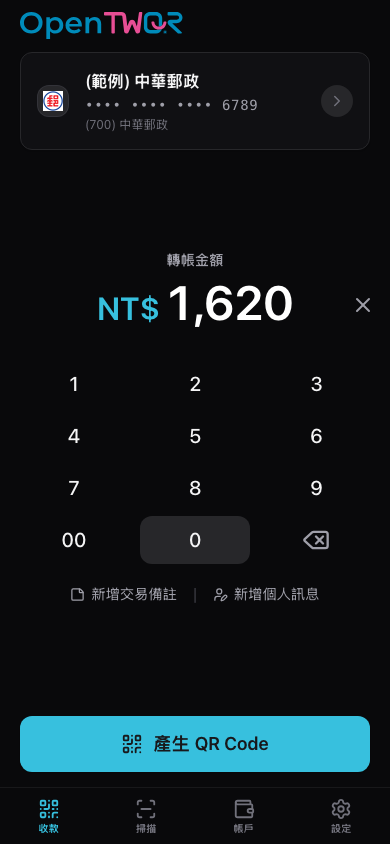
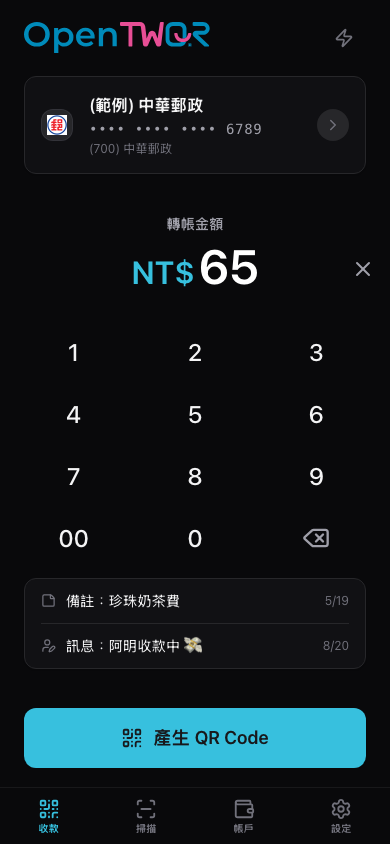
feat: 更新多個頁面和組件的樣式以改善用戶界面；調整按鈕和間距以增強可用性

diff --git a/src/pages/ReceivePage.tsx b/src/pages/ReceivePage.tsx
@@ -187,14 +187,22 @@ export const ReceivePage = () => {
 
       <main id="receive-main" className="flex-1 flex flex-col min-h-0 max-w-md lg:max-w-lg mx-auto w-full pb-safe">
         {/* Header */}
-        <header className="shrink-0 flex justify-between items-center px-5 py-3 pt-[calc(0.75rem+env(safe-area-inset-top))]">
+        <header className="shrink-0 flex justify-between items-center px-6 py-4 pt-[calc(1rem+env(safe-area-inset-top))]">
           <h1>
-            <OpenTWQRLogo className="h-7 w-auto" />
+            <OpenTWQRLogo className="h-8 w-auto" />
           </h1>
+          <button
+            type="button"
+            onClick={() => setShowQuickAccess(true)}
+            aria-label={t.receive.quickAccess}
+            className="p-2.5 min-w-11 min-h-11 flex items-center justify-center rounded-full text-zinc-400 dark:text-zinc-500 hover:text-zinc-700 dark:hover:text-zinc-200 hover:bg-zinc-100 dark:hover:bg-zinc-800 transition-colors focus-visible:outline-hidden focus-visible:ring-2 focus-visible:ring-zinc-900 dark:focus-visible:ring-zinc-100"
+          >
+            <Zap size={20} aria-hidden="true" />
+          </button>
         </header>
 
         {/* Account selector */}
-        <div className="shrink-0 px-5 mb-1">
+        <div className="shrink-0 px-6 mb-3">
           <Link
             to="/accounts"
             viewTransition
@@ -226,39 +234,47 @@ export const ReceivePage = () => {
 
         {/* Amount input, transaction note & generate button */}
         <div className="flex-1 flex flex-col justify-between min-h-0">
-          <div className="flex-1 flex flex-col items-center justify-center gap-2 min-h-0">
+          <div className="flex-1 flex flex-col items-center justify-center gap-3 min-h-0">
             <AmountInput value={amount} onChange={setAmount} />
 
-            {/* Transaction note & personal message — side by side */}
-            <div className="w-full max-w-sm mx-auto px-4 flex items-center justify-center gap-4">
-              <button
-                type="button"
-                onClick={() => setShowNoteInput(true)}
-                className="flex items-center gap-1.5 text-sm text-zinc-500 dark:text-zinc-400 hover:text-zinc-700 dark:hover:text-zinc-300 transition-colors py-2.5 min-h-11 rounded-lg whitespace-nowrap focus-visible:outline-hidden focus-visible:ring-2 focus-visible:ring-zinc-900 dark:focus-visible:ring-zinc-100"
-              >
-                <StickyNote size={15} aria-hidden="true" className="shrink-0" />
-                <span className="truncate">{note ? `${t.qr.notePrefix}${note}` : t.receive.addNote}</span>
-              </button>
-              <span className="text-zinc-300 dark:text-zinc-700 select-none" aria-hidden="true">|</span>
-              <button
-                type="button"
-                onClick={() => setShowMessageInput(true)}
-                className="flex items-center gap-1.5 text-sm text-zinc-500 dark:text-zinc-400 hover:text-zinc-700 dark:hover:text-zinc-300 transition-colors py-2.5 min-h-11 rounded-lg whitespace-nowrap focus-visible:outline-hidden focus-visible:ring-2 focus-visible:ring-zinc-900 dark:focus-visible:ring-zinc-100"
-              >
-                <UserPen size={15} aria-hidden="true" className="shrink-0" />
-                <span className="truncate">{customName ? `${t.receive.messagePrefix}${customName}` : t.receive.addMessage}</span>
-              </button>
+            {/* Transaction note & personal message — two rows in a card */}
+            <div className="w-full px-6">
+              <div className="bg-white dark:bg-zinc-900/60 border border-zinc-200 dark:border-zinc-800 rounded-xl overflow-hidden shadow-xs">
+                <button
+                  type="button"
+                  onClick={() => setShowNoteInput(true)}
+                  className="flex items-center gap-2.5 text-sm hover:bg-zinc-50 dark:hover:bg-zinc-800/60 transition-colors py-3 px-4 min-h-11 w-full focus-visible:outline-hidden focus-visible:ring-2 focus-visible:ring-inset focus-visible:ring-zinc-900 dark:focus-visible:ring-zinc-100"
+                >
+                  <StickyNote size={15} aria-hidden="true" className="shrink-0 text-zinc-400 dark:text-zinc-500" />
+                  <span className={`flex-1 text-left truncate ${note ? 'text-zinc-800 dark:text-zinc-100' : 'text-zinc-400 dark:text-zinc-500'}`}>
+                    {note ? `${t.qr.notePrefix}${note}` : t.receive.addNote}
+                  </span>
+                  {note && <span className="text-xs text-zinc-400 dark:text-zinc-500 shrink-0">{note.length}/19</span>}
+                </button>
+                <div className="h-px bg-zinc-100 dark:bg-zinc-800 mx-4" aria-hidden="true" />
+                <button
+                  type="button"
+                  onClick={() => setShowMessageInput(true)}
+                  className="flex items-center gap-2.5 text-sm hover:bg-zinc-50 dark:hover:bg-zinc-800/60 transition-colors py-3 px-4 min-h-11 w-full focus-visible:outline-hidden focus-visible:ring-2 focus-visible:ring-inset focus-visible:ring-zinc-900 dark:focus-visible:ring-zinc-100"
+                >
+                  <UserPen size={15} aria-hidden="true" className="shrink-0 text-zinc-400 dark:text-zinc-500" />
+                  <span className={`flex-1 text-left truncate ${customName ? 'text-zinc-800 dark:text-zinc-100' : 'text-zinc-400 dark:text-zinc-500'}`}>
+                    {customName ? `${t.receive.messagePrefix}${customName}` : t.receive.addMessage}
+                  </span>
+                  {customName && <span className="text-xs text-zinc-400 dark:text-zinc-500 shrink-0">{customName.length}/20</span>}
+                </button>
+              </div>
             </div>
           </div>
 
-          <div className="shrink-0 px-5 pb-4 pt-1">
+          <div className="shrink-0 px-6 pb-5 pt-3">
             <button
               type="button"
               onClick={() => {
                 haptic();
                 setShowQR(true);
               }}
-              className="w-full flex items-center justify-center gap-2.5 py-3.5 btn-accent font-semibold rounded-xl text-lg active:scale-98 action-transition shadow-xs focus-visible:outline-hidden focus-visible:ring-2 focus-visible:ring-offset-2 dark:focus-visible:ring-offset-zinc-950"
+              className="w-full flex items-center justify-center gap-2.5 py-4 btn-accent font-semibold rounded-xl text-lg active:scale-98 action-transition shadow-xs focus-visible:outline-hidden focus-visible:ring-2 focus-visible:ring-offset-2 dark:focus-visible:ring-offset-zinc-950"
             >
               <QrCode size={22} aria-hidden="true" />
               {t.receive.generateQR}

diff --git a/src/pages/SharePage.tsx b/src/pages/SharePage.tsx
@@ -10,11 +10,33 @@ import { haptic } from '../utils/haptics';
 import { UserPlus, CreditCard, Banknote, StickyNote } from 'lucide-react';
 
 /**
+ * Returns true when `value` looks like one of our own encrypted share URLs,
+ * i.e. matches `<origin>/s/<base64url>#<base64url>`.
+ *
+ * The `#` arrives percent-encoded (%23) in the query-parameter value, but
+ * `URLSearchParams.get()` decodes it back to `#` before we see it here, so
+ * we can simply parse it with the `URL` constructor.
+ */
+function isOwnShareUrl(value: string): boolean {
+  try {
+    const url = new URL(value);
+    return (
+      url.origin === window.location.origin &&
+      /^\/s\/[A-Za-z0-9_-]+$/.test(url.pathname) &&
+      url.hash.length > 1
+    );
+  } catch {
+    return false;
+  }
+}
+
+/**
  * Web Share Target landing page — `/share?text=<shared-text>`.
  * Routes shared content to the appropriate handler based on content type:
- *  - OTWQR backup string → ImportDialog
- *  - TWQR QR code string → disambiguation (save account vs. pay)
- *  - Otherwise           → redirect home
+ *  - OTWQR backup string      → ImportDialog
+ *  - TWQR QR code string      → disambiguation (save account vs. pay)
+ *  - OpenTWQR share URL       → redirect to /s/:data#fragment (SharedPage)
+ *  - Otherwise                → redirect home
  */
 export const SharePage = () => {
   const [params] = useSearchParams();
@@ -29,7 +51,7 @@ export const SharePage = () => {
   ].filter(Boolean) as string[];
 
   let sharedText = '';
-  let contentType: 'otwqr' | 'twqr' | 'unknown' = 'unknown';
+  let contentType: 'otwqr' | 'twqr' | 'shareurl' | 'unknown' = 'unknown';
 
   for (const candidate of candidates) {
     const trimmed = candidate.trim();
@@ -43,9 +65,23 @@ export const SharePage = () => {
       contentType = 'twqr';
       break;
     }
+    // Detect an encrypted OpenTWQR payment-link URL shared from another device.
+    // URLSearchParams.get() already percent-decodes the value, so the `#`
+    // fragment separator is restored from %23 before we reach this check.
+    if (contentType === 'unknown' && isOwnShareUrl(trimmed)) {
+      sharedText = trimmed;
+      contentType = 'shareurl';
+      // Don't break — a later candidate might be a higher-priority OTWQR/TWQR string.
+    }
   }
 
   if (!sharedText || contentType === 'unknown') return <Navigate to="/" replace />;
+
+  // Encrypted share URL → hand off to SharedPage which handles decryption.
+  if (contentType === 'shareurl') {
+    const { pathname, hash } = new URL(sharedText);
+    return <Navigate to={`${pathname}${hash}`} replace />;
+  }
 
   if (contentType === 'otwqr') {
     return (

diff --git a/src/components/receive/AmountInput.tsx b/src/components/receive/AmountInput.tsx
@@ -71,7 +71,7 @@ export const AmountInput = ({ value, onChange, maxAmount = 2_000_000 }: AmountIn
   const formattedMax = new Intl.NumberFormat().format(maxAmount);
 
   const digitBtnClass =
-    'h-12 rounded-xl text-xl font-medium text-zinc-900 dark:text-zinc-100 hover:bg-zinc-100 dark:hover:bg-zinc-800 active:bg-zinc-200 dark:active:bg-zinc-700 action-transition flex items-center justify-center';
+    'h-14 rounded-xl text-2xl font-medium text-zinc-900 dark:text-zinc-100 hover:bg-zinc-100 dark:hover:bg-zinc-800 active:bg-zinc-200 dark:active:bg-zinc-700 action-transition flex items-center justify-center';
 
   return (
     <div className="w-full max-w-sm mx-auto flex flex-col gap-2">
@@ -127,7 +127,7 @@ export const AmountInput = ({ value, onChange, maxAmount = 2_000_000 }: AmountIn
       </div>
 
       {/* Keypad */}
-      <div role="group" aria-label={t.amount.keypad} className="grid grid-cols-3 gap-x-3 gap-y-1 select-none px-4 shrink-0">
+      <div role="group" aria-label={t.amount.keypad} className="grid grid-cols-3 gap-x-3 gap-y-1.5 select-none px-4 shrink-0">
         {[1, 2, 3, 4, 5, 6, 7, 8, 9].map((num) => (
           <button
             key={num}
@@ -148,7 +148,7 @@ export const AmountInput = ({ value, onChange, maxAmount = 2_000_000 }: AmountIn
           type="button"
           onClick={handleBackspace}
           aria-label={t.amount.backspace}
-          className="h-12 rounded-xl text-zinc-600 dark:text-zinc-400 hover:bg-zinc-100 dark:hover:bg-zinc-800 active:bg-zinc-200 dark:active:bg-zinc-700 action-transition flex items-center justify-center"
+          className="h-14 rounded-xl text-zinc-600 dark:text-zinc-400 hover:bg-zinc-100 dark:hover:bg-zinc-800 active:bg-zinc-200 dark:active:bg-zinc-700 action-transition flex items-center justify-center"
         >
           <Delete size={28} aria-hidden="true" />
         </button>

diff --git a/src/pages/ScanPage.tsx b/src/pages/ScanPage.tsx
@@ -172,8 +172,8 @@ export const ScanPage = () => {
       {/* Header — hidden while scanning to maximise camera real-estate */}
       {!scanning && (
         <header className="sticky top-0 z-20 shrink-0 bg-zinc-50/80 dark:bg-zinc-950/80 backdrop-blur-xl border-b border-zinc-200/50 dark:border-zinc-800/50 pt-safe animate-in fade-in duration-200">
-          <div className="flex items-center justify-between py-4 pl-[max(1.25rem,env(safe-area-inset-left))] pr-[max(1.25rem,env(safe-area-inset-right))]">
-            <h1 className="text-xl font-bold tracking-tight text-zinc-900 dark:text-zinc-100 ml-1">
+          <div className="flex items-center justify-between py-4 pl-[max(1.5rem,env(safe-area-inset-left))] pr-[max(1.5rem,env(safe-area-inset-right))]">
+            <h1 className="text-xl font-bold tracking-tight text-zinc-900 dark:text-zinc-100">
               {t.scan.title}
             </h1>
           </div>
@@ -193,7 +193,7 @@ export const ScanPage = () => {
         <main id="scan-main" className="flex-1 flex flex-col min-h-0">
           {/* Non-TWQR scan result */}
           {!parsed && (
-            <div className="flex-1 flex flex-col items-center justify-center gap-5 py-5 pl-[max(1.25rem,env(safe-area-inset-left))] pr-[max(1.25rem,env(safe-area-inset-right))]">
+            <div className="flex-1 flex flex-col items-center justify-center gap-5 py-5 pl-[max(1.5rem,env(safe-area-inset-left))] pr-[max(1.5rem,env(safe-area-inset-right))]">
               <div className="w-full max-w-sm bg-white dark:bg-zinc-900 rounded-2xl border border-zinc-200 dark:border-zinc-800 shadow-lg p-6">
                 <p className="text-xs text-zinc-500 dark:text-zinc-400 uppercase tracking-wide font-medium mb-3">
                   {t.scan.rawResult}

diff --git a/src/pages/AccountsPage.tsx b/src/pages/AccountsPage.tsx
@@ -78,8 +78,8 @@ export const AccountsPage = () => {
 
       {/* Header */}
       <header className="sticky top-0 z-20 bg-zinc-50/80 dark:bg-zinc-950/80 backdrop-blur-xl border-b border-zinc-200/50 dark:border-zinc-800/50 pt-safe">
-        <div className="p-4 flex items-center justify-between">
-          <h1 className="text-xl font-bold tracking-tight text-zinc-900 dark:text-zinc-100 ml-1">{t.accounts.title}</h1>
+        <div className="px-6 py-4 flex items-center justify-between">
+          <h1 className="text-xl font-bold tracking-tight text-zinc-900 dark:text-zinc-100">{t.accounts.title}</h1>
           <div className="flex items-center gap-1">
             <button
               type="button"
@@ -102,7 +102,7 @@ export const AccountsPage = () => {
       </header>
 
       {/* Content */}
-      <main id="accounts-main" className="flex-1 p-5 max-w-md lg:max-w-lg mx-auto w-full">
+      <main id="accounts-main" className="flex-1 px-6 py-5 max-w-md lg:max-w-lg mx-auto w-full">
         {accounts.length === 0 ? (
           <div className="flex flex-col items-center justify-center py-24 text-center gap-6">
             <div className="w-24 h-24 rounded-2xl bg-white dark:bg-zinc-900 text-zinc-300 dark:text-zinc-700 border border-zinc-200/50 dark:border-zinc-800/50 flex items-center justify-center shadow-xs">

diff --git a/src/pages/SettingsPage.tsx b/src/pages/SettingsPage.tsx
@@ -22,8 +22,8 @@ export const SettingsPage = () => {
 
       {/* Header */}
       <header className="sticky top-0 z-20 bg-zinc-50/80 dark:bg-zinc-950/80 backdrop-blur-xl border-b border-zinc-200/50 dark:border-zinc-800/50 pt-safe">
-        <div className="p-4 flex items-center justify-between">
-          <h1 className="text-xl font-bold tracking-tight text-zinc-900 dark:text-zinc-100 ml-1">{t.settings.title}</h1>
+        <div className="px-6 py-4 flex items-center justify-between">
+          <h1 className="text-xl font-bold tracking-tight text-zinc-900 dark:text-zinc-100">{t.settings.title}</h1>
           <div className="flex items-center">
             <LanguageToggle />
             <ThemeToggle />
@@ -32,7 +32,7 @@ export const SettingsPage = () => {
       </header>
 
       {/* Content */}
-      <main id="settings-main" className="flex-1 p-5 max-w-md lg:max-w-lg mx-auto w-full">
+      <main id="settings-main" className="flex-1 px-6 py-5 max-w-md lg:max-w-lg mx-auto w-full">
         <div className="space-y-8 pb-8">
           <PersonalizationSection />
           <UrlSchemeSection />

diff --git a/src/pages/PaymentLinksPage.tsx b/src/pages/PaymentLinksPage.tsx
@@ -51,7 +51,7 @@ export const PaymentLinksPage = () => {
 
       {/* Header */}
       <header className="sticky top-0 z-20 bg-zinc-50/80 dark:bg-zinc-950/80 backdrop-blur-xl border-b border-zinc-200/50 dark:border-zinc-800/50 pt-safe">
-        <div className="p-4 flex items-center justify-between">
+        <div className="px-5 py-4 flex items-center justify-between">
           <div className="flex items-center gap-1">
             <button
               type="button"
@@ -77,7 +77,7 @@ export const PaymentLinksPage = () => {
       </header>
 
       {/* Content */}
-      <main id="payment-links-main" className="flex-1 p-5 max-w-md lg:max-w-lg mx-auto w-full">
+      <main id="payment-links-main" className="flex-1 px-6 py-5 max-w-md lg:max-w-lg mx-auto w-full">
         {configs.length === 0 ? (
           /* Empty state — mirrors AccountsPage */
           <div className="flex flex-col items-center justify-center py-24 text-center gap-6">
